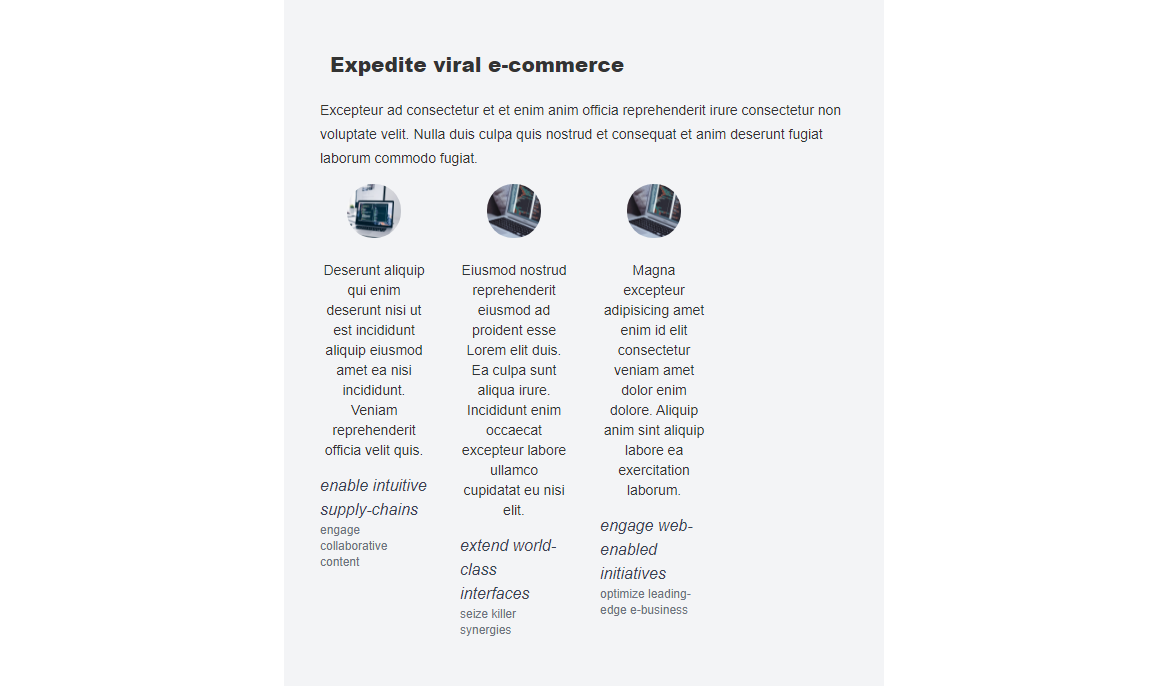
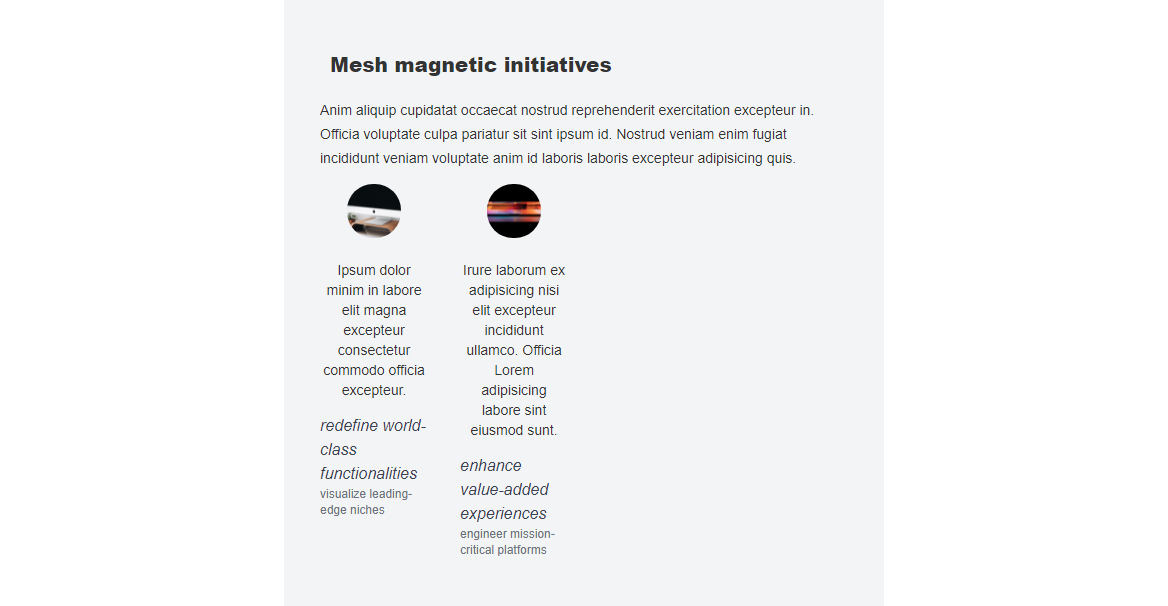
updated page custom type to be repeatable

Changed region(s): [[0.2774, 0.1485, 0.7397, 0.9505], [0.4932, 0.3861, 0.6164, 0.9208], [0.2774, 0.0891, 0.5548, 0.1188]]

diff --git a/.slicemachine/assets/slices/SectionServices/index.stories.js b/.slicemachine/assets/slices/SectionServices/index.stories.js
@@ -5,5 +5,5 @@ export default {
 }
 
 
-export const _DefaultSlice = () => <MyComponent slice={{"variation":"default-slice","name":"Default slice","slice_type":"section_services","items":[{"title":"embrace vertical e-markets","extract":[{"type":"paragraph","text":"Adipisicing quis cillum qui aute.","spans":[]}],"image":{"dimensions":{"width":900,"height":500},"alt":"Placeholder image","copyright":null,"url":"https://images.unsplash.com/photo-1587614295999-6c1c13675117?w=900&h=500&fit=crop"},"icon":{"link_type":"media","url":"https://source.unsplash.com/daily"},"buttonText":"extend front-end e-markets","Link":{"link_type":"Web","url":"https://slicemachine.dev"}},{"title":"maximize scalable synergies","extract":[{"type":"paragraph","text":"Pariatur consectetur laborum est.","spans":[]}],"image":{"dimensions":{"width":900,"height":500},"alt":"Placeholder image","copyright":null,"url":"https://images.unsplash.com/photo-1607582278038-6bebbd4d7b72?w=900&h=500&fit=crop"},"icon":{"link_type":"media","url":"https://source.unsplash.com/daily"},"buttonText":"extend rich interfaces","Link":{"link_type":"Web","url":"http://twitter.com"}},{"title":"deliver collaborative action-items","extract":[{"type":"paragraph","text":"Ullamco ad id nulla velit non deserunt sunt et commodo ea velit.","spans":[]}],"image":{"dimensions":{"width":900,"height":500},"alt":"Placeholder image","copyright":null,"url":"https://images.unsplash.com/photo-1596195689404-24d8a8d1c6ea?w=900&h=500&fit=crop"},"icon":{"link_type":"media","url":"https://source.unsplash.com/daily"},"buttonText":"architect strategic methodologies","Link":{"link_type":"Web","url":"http://google.com"}},{"title":"recontextualize viral initiatives","extract":[{"type":"paragraph","text":"Reprehenderit labore quis aliquip consequat esse pariatur labore quis culpa exercitation id sit.","spans":[]}],"image":{"dimensions":{"width":900,"height":500},"alt":"Placeholder image","copyright":null,"url":"https://images.unsplash.com/photo-1544731612-de7f96afe55f?w=900&h=500&fit=crop"},"icon":{"link_type":"media","url":"https://source.unsplash.com/daily"},"buttonText":"maximize scalable users","Link":{"link_type":"Web","url":"https://prismic.io"}}],"primary":{"title":[{"type":"heading1","text":"Deploy vertical networks","spans":[]}],"description":[{"type":"paragraph","text":"Magna aliqua et sunt labore reprehenderit dolor ex voluptate officia esse aliqua.","spans":[]}]},"id":"_DefaultSlice"}} />
+export const _DefaultSlice = () => <MyComponent slice={{"variation":"default-slice","name":"Default slice","slice_type":"section_services","items":[{"title":"productize wireless technologies","extract":[{"type":"paragraph","text":"Sit consequat nisi magna velit mollit incididunt commodo non est cillum duis laboris.","spans":[]}],"image":{"dimensions":{"width":900,"height":500},"alt":"Placeholder image","copyright":null,"url":"https://images.unsplash.com/photo-1504198070170-4ca53bb1c1fa?w=900&h=500&fit=crop"},"icon":{"link_type":"media","url":"https://source.unsplash.com/daily"},"buttonText":"envisioneer innovative convergence","Link":{"link_type":"Web","url":"https://slicemachine.dev"}},{"title":"cultivate dot-com communities","extract":[{"type":"paragraph","text":"Tempor sit velit excepteur ullamco aliqua aliqua laborum. Tempor anim ipsum ipsum duis aliqua nisi consectetur nostrud amet proident dolor mollit quis. Eu aliquip voluptate esse in do laboris tempor ut duis enim.","spans":[]}],"image":{"dimensions":{"width":900,"height":500},"alt":"Placeholder image","copyright":null,"url":"https://images.unsplash.com/photo-1576662712957-9c79ae1280f8?w=900&h=500&fit=crop"},"icon":{"link_type":"media","url":"https://source.unsplash.com/daily"},"buttonText":"deploy visionary convergence","Link":{"link_type":"Web","url":"http://google.com"}},{"title":"leverage virtual bandwidth","extract":[{"type":"paragraph","text":"Dolor non aute sunt ullamco anim deserunt aliqua id nisi cillum. Qui pariatur nisi dolore tempor anim officia pariatur nostrud non. Culpa occaecat quis qui occaecat veniam ipsum sint est nulla.","spans":[]}],"image":{"dimensions":{"width":900,"height":500},"alt":"Placeholder image","copyright":null,"url":"https://images.unsplash.com/photo-1525547719571-a2d4ac8945e2?w=900&h=500&fit=crop"},"icon":{"link_type":"media","url":"https://source.unsplash.com/daily"},"buttonText":"generate best-of-breed initiatives","Link":{"link_type":"Web","url":"http://google.com"}},{"title":"exploit bleeding-edge channels","extract":[{"type":"paragraph","text":"Exercitation nostrud ipsum consequat nulla velit in.","spans":[]}],"image":{"dimensions":{"width":900,"height":500},"alt":"Placeholder image","copyright":null,"url":"https://images.unsplash.com/photo-1600861194802-a2b11076bc51?w=900&h=500&fit=crop"},"icon":{"link_type":"media","url":"https://source.unsplash.com/daily"},"buttonText":"exploit seamless vortals","Link":{"link_type":"Web","url":"http://google.com"}}],"primary":{"title":[{"type":"heading1","text":"Deploy intuitive web-readiness","spans":[]}],"description":[{"type":"paragraph","text":"Aliqua esse dolore nisi anim tempor.","spans":[]}]},"id":"_DefaultSlice"}} />
 _DefaultSlice.storyName = 'Default slice'

diff --git a/.slicemachine/assets/slices/SectionSnap/index.stories.js b/.slicemachine/assets/slices/SectionSnap/index.stories.js
@@ -5,5 +5,5 @@ export default {
 }
 
 
-export const _DefaultSlice = () => <MyComponent slice={{"variation":"default-slice","name":"Default slice","slice_type":"section_snap","items":[{"title":"empower customized experiences","subtitle":"whiteboard mission-critical web services","description":[{"type":"paragraph","text":"Eiusmod ex ipsum cillum consectetur mollit sunt elit culpa veniam dolor dolor cupidatat nostrud in.","spans":[]}],"buttonText":"iterate extensible systems","buttonLink":{"link_type":"Web","url":"http://google.com"},"image":{"dimensions":{"width":900,"height":500},"alt":"Placeholder image","copyright":null,"url":"https://images.unsplash.com/photo-1579931794097-0ad001e51edb?w=900&h=500&fit=crop"}},{"title":"streamline enterprise schemas","subtitle":"revolutionize cross-platform e-business","description":[{"type":"paragraph","text":"Qui aliquip ipsum et aliquip cillum fugiat irure laborum qui proident cillum irure pariatur ad commodo. Anim deserunt et consectetur reprehenderit do deserunt qui magna esse.","spans":[]}],"buttonText":"morph B2C platforms","buttonLink":{"link_type":"Web","url":"https://prismic.io"},"image":{"dimensions":{"width":900,"height":500},"alt":"Placeholder image","copyright":null,"url":"https://images.unsplash.com/photo-1587905069134-008460d7a636?w=900&h=500&fit=crop"}}],"primary":{},"id":"_DefaultSlice"}} />
+export const _DefaultSlice = () => <MyComponent slice={{"variation":"default-slice","name":"Default slice","slice_type":"section_snap","items":[{"title":"target synergistic deliverables","subtitle":"envisioneer scalable functionalities","description":[{"type":"paragraph","text":"Voluptate laboris veniam velit exercitation eiusmod magna eiusmod mollit labore incididunt aliqua. Cillum ea incididunt sit cillum aliquip qui ex consequat.","spans":[]}],"buttonText":"redefine distributed e-services","buttonLink":{"link_type":"Web","url":"http://google.com"},"image":{"dimensions":{"width":900,"height":500},"alt":"Placeholder image","copyright":null,"url":"https://images.unsplash.com/photo-1600804931749-2da4ce26c869?w=900&h=500&fit=crop"}},{"title":"target clicks-and-mortar methodologies","subtitle":"disintermediate cutting-edge e-commerce","description":[{"type":"paragraph","text":"Lorem aliquip voluptate culpa nulla cillum occaecat officia tempor cillum. Velit aute exercitation exercitation esse laborum elit commodo esse nulla. Officia excepteur proident excepteur id.","spans":[]}],"buttonText":"benchmark sticky markets","buttonLink":{"link_type":"Web","url":"https://prismic.io"},"image":{"dimensions":{"width":900,"height":500},"alt":"Placeholder image","copyright":null,"url":"https://images.unsplash.com/photo-1606248897732-2c5ffe759c04?w=900&h=500&fit=crop"}},{"title":"matrix cross-media niches","subtitle":"matrix mission-critical e-tailers","description":[{"type":"paragraph","text":"Deserunt excepteur minim tempor id. Ea dolor laboris irure incididunt dolore. Adipisicing exercitation est ea reprehenderit et ullamco dolore aliquip pariatur ipsum consequat commodo id.","spans":[]}],"buttonText":"disintermediate visionary communities","buttonLink":{"link_type":"Web","url":"https://slicemachine.dev"},"image":{"dimensions":{"width":900,"height":500},"alt":"Placeholder image","copyright":null,"url":"https://images.unsplash.com/photo-1593642532973-d31b6557fa68?w=900&h=500&fit=crop"}},{"title":"scale viral web services","subtitle":"iterate sticky initiatives","description":[{"type":"paragraph","text":"Quis non ex voluptate consequat ut cupidatat occaecat sit exercitation minim ex ipsum adipisicing do.","spans":[]}],"buttonText":"revolutionize leading-edge partnerships","buttonLink":{"link_type":"Web","url":"https://slicemachine.dev"},"image":{"dimensions":{"width":900,"height":500},"alt":"Placeholder image","copyright":null,"url":"https://images.unsplash.com/photo-1600861194802-a2b11076bc51?w=900&h=500&fit=crop"}}],"primary":{},"id":"_DefaultSlice"}} />
 _DefaultSlice.storyName = 'Default slice'

diff --git a/.slicemachine/assets/slices/SectionTestimonials/index.stories.js b/.slicemachine/assets/slices/SectionTestimonials/index.stories.js
@@ -5,5 +5,5 @@ export default {
 }
 
 
-export const _DefaultSlice = () => <MyComponent slice={{"variation":"default-slice","name":"Default slice","slice_type":"section_testimonials","items":[{"citation":[{"type":"paragraph","text":"Deserunt aliquip qui enim deserunt nisi ut est incididunt aliquip eiusmod amet ea nisi incididunt. Veniam reprehenderit officia velit quis.","spans":[]}],"author":"enable intuitive supply-chains","position":"engage collaborative content","image":{"dimensions":{"width":900,"height":500},"alt":"Placeholder image","copyright":null,"url":"https://images.unsplash.com/photo-1498050108023-c5249f4df085?w=900&h=500&fit=crop"}},{"citation":[{"type":"paragraph","text":"Eiusmod nostrud reprehenderit eiusmod ad proident esse Lorem elit duis. Ea culpa sunt aliqua irure. Incididunt enim occaecat excepteur labore ullamco cupidatat eu nisi elit.","spans":[]}],"author":"extend world-class interfaces","position":"seize killer synergies","image":{"dimensions":{"width":900,"height":500},"alt":"Placeholder image","copyright":null,"url":"https://images.unsplash.com/photo-1493119508027-2b584f234d6c?w=900&h=500&fit=crop"}},{"citation":[{"type":"paragraph","text":"Magna excepteur adipisicing amet enim id elit consectetur veniam amet dolor enim dolore. Aliquip anim sint aliquip labore ea exercitation laborum.","spans":[]}],"author":"engage web-enabled initiatives","position":"optimize leading-edge e-business","image":{"dimensions":{"width":900,"height":500},"alt":"Placeholder image","copyright":null,"url":"https://images.unsplash.com/photo-1493119508027-2b584f234d6c?w=900&h=500&fit=crop"}}],"primary":{"title":[{"type":"heading1","text":"Expedite viral e-commerce","spans":[]}],"description":[{"type":"paragraph","text":"Excepteur ad consectetur et et enim anim officia reprehenderit irure consectetur non voluptate velit. Nulla duis culpa quis nostrud et consequat et anim deserunt fugiat laborum commodo fugiat.","spans":[]}]},"id":"_DefaultSlice"}} />
+export const _DefaultSlice = () => <MyComponent slice={{"variation":"default-slice","name":"Default slice","slice_type":"section_testimonials","items":[{"citation":[{"type":"paragraph","text":"Ipsum dolor minim in labore elit magna excepteur consectetur commodo officia excepteur.","spans":[]}],"author":"redefine world-class functionalities","position":"visualize leading-edge niches","image":{"dimensions":{"width":900,"height":500},"alt":"Placeholder image","copyright":null,"url":"https://images.unsplash.com/photo-1494173853739-c21f58b16055?w=900&h=500&fit=crop"}},{"citation":[{"type":"paragraph","text":"Irure laborum ex adipisicing nisi elit excepteur incididunt ullamco. Officia Lorem adipisicing labore sint eiusmod sunt.","spans":[]}],"author":"enhance value-added experiences","position":"engineer mission-critical platforms","image":{"dimensions":{"width":900,"height":500},"alt":"Placeholder image","copyright":null,"url":"https://images.unsplash.com/photo-1537498425277-c283d32ef9db?w=900&h=500&fit=crop"}}],"primary":{"title":[{"type":"heading1","text":"Mesh magnetic initiatives","spans":[]}],"description":[{"type":"paragraph","text":"Anim aliquip cupidatat occaecat nostrud reprehenderit exercitation excepteur in. Officia voluptate culpa pariatur sit sint ipsum id. Nostrud veniam enim fugiat incididunt veniam voluptate anim id laboris laboris excepteur adipisicing quis.","spans":[]}]},"id":"_DefaultSlice"}} />
 _DefaultSlice.storyName = 'Default slice'
